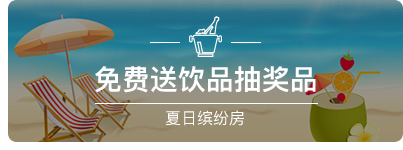
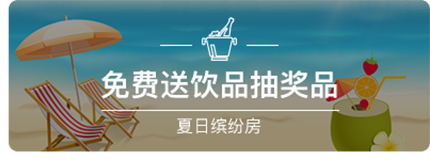
summrer

diff --git a/summer_vacation/styles/index.css b/summer_vacation/styles/index.css
@@ -166,4 +166,71 @@ html {
         width: 100%;
         height: 100%; }
 
+.minimum-header {
+  width: 100%;
+  height: auto;
+  font-size: 0; }
+  .minimum-header > img {
+    width: 100%; }
+  .minimum-header .title {
+    position: relative;
+    margin-top: -20%;
+    width: 100%;
+    font-size: 0;
+    text-align: center; }
+    .minimum-header .title > img {
+      width: 50%; }
+    .minimum-header .title .rule {
+      position: absolute;
+      top: 50%;
+      right: 5%;
+      z-index: 1;
+      width: 2rem;
+      height: 2rem;
+      -moz-transform: translate(0, -50%);
+      -o-transform: translate(0, -50%);
+      -ms-transform: translate(0, -50%);
+      -webkit-transform: translate(0, -50%);
+      transform: translate(0, -50%); }
+      .minimum-header .title .rule img {
+        width: 100%;
+        height: 100%; }
+  .minimum-header .city {
+    position: relative;
+    width: 100%;
+    margin: 3% 0 5%; }
+    .minimum-header .city p {
+      margin: 0 auto;
+      width: 36%;
+      height: 1.4rem;
+      background-color: #fff;
+      border: 1px solid #feae21;
+      border-radius: 30px;
+      display: -webkit-flex;
+      display: flex;
+      align-items: center; }
+      .minimum-header .city p i {
+        width: 2rem;
+        position: relative; }
+        .minimum-header .city p i:after {
+          position: absolute;
+          content: "";
+          width: 0;
+          height: 0;
+          top: -.1rem;
+          left: 50%;
+          border: .4rem solid;
+          border-color: #feae21 transparent transparent transparent;
+          -moz-transform: translate(-50%, 0);
+          -o-transform: translate(-50%, 0);
+          -ms-transform: translate(-50%, 0);
+          -webkit-transform: translate(-50%, 0);
+          transform: translate(-50%, 0); }
+      .minimum-header .city p span {
+        font: 0.7rem/1.4rem -apple-system, BlinkMacSystemFont, "PingFang SC", "Helvetica Neue", STHeiti, "Microsoft Yahei", Tahoma, Simsun, sans-serif;
+        color: #feae21;
+        flex: 1;
+        border-left: 1px solid #feae21;
+        text-align: center; }
+
 /*# sourceMappingURL=index.css.map */

diff --git a/summer_vacation/minimum_price.html b/summer_vacation/minimum_price.html
@@ -1,0 +1,52 @@
+<!DOCTYPE html>
+<html id="html" lang="zh-cmn-Hans">
+<head>
+<meta charset="UTF-8">
+<meta http-equiv="X-UA-Compatible" content="IE=edge,chrome=1"/>
+<meta name="description" content="不超过150个字符"/>
+<meta name="keywords" content="不超过80个字符"/>
+<meta name="author" content="name, sycbbb@sina.com"/>
+<meta name="robots" content="index,follow"/>
+<meta name="viewport" content="width=device-width, initial-scale=1.0, user-scalable=no">
+<meta name="apple-mobile-web-app-status-bar-style" content="black"/>
+<meta name="format-detection" content="telephone=no, email=no,adress=no"/>
+<meta name="msapplication-tap-highlight" content="no">
+<link rel="stylesheet" href="styles/index.css">
+<title></title>
+</head>
+<body>
+<div class="masterplate-wrapper" style="background:url(images/minimum_price_bg.jpg) repeat-y;background-size:100% auto">
+	<header class="minimum-header">
+		<img src="images/minimum_price_head.jpg" alt="">
+		<div class="title">
+			<img src="images/minimum_price_title.png" alt="">
+			<div class="rule">
+				<img src="images/minimum_price_rule.png" alt="">
+			</div>
+		</div>
+		<div class="city">
+			<p><i></i><span>广州</span></p>
+		</div>
+	</header>
+</div>
+<!-- script begin -->
+<script src="scripts/jquery-3.1.1.min.js"></script>
+<script>
+	$(function(){
+	    //设置标题
+		var titleHeight=$(".masterplate-title").height();
+		var titleImgHeight=$(".masterplate-title img").height();
+		var marginTopHeight=(titleHeight-titleImgHeight)/2;
+		$(".masterplate-title img").css('margin-top',marginTopHeight);
+		
+		//设置列表尺寸比例
+		var containerW=$("#container").width();
+		var containerH=$("#container").height();	
+		$(".item").width(containerW/3).height(containerH/2);
+		$(".item:nth-child(2)").width(containerW/3*2).height(containerH/2);
+
+	});
+</script>
+<!-- script end -->
+</body>
+</html>

diff --git a/summer_vacation/sass/_index.scss b/summer_vacation/sass/_index.scss
@@ -61,5 +61,74 @@
 	}
 }
 
-
+//minmum header begin
+.minimum-header{
+	width:100%;
+	height:auto;
+	font-size:0;
+	>img{
+		width:100%;
+	}
+	.title{
+		position:relative;
+		margin-top:-20%;
+		width:100%;
+		font-size:0;
+		text-align:center;
+		>img{
+			width:50%;
+		}
+		.rule{
+			position:absolute;
+			top:50%;
+			right:5%;
+			z-index:1;
+			width:2rem;
+			height:2rem;
+			@include transform(translate(0, -50%));
+			img{
+				width:100%;
+				height:100%;
+			}
+		}
+	}
+	.city{
+	    position: relative;
+		width:100%;
+		margin:3% 0 5%;
+		p{
+			margin:0 auto;
+			width:36%;
+			height:1.4rem;
+			background-color:#fff;
+			border:1px solid #feae21;
+			border-radius:30px;
+			display:-webkit-flex;
+			display:flex;
+			align-items:center;
+			i{
+				width:2rem;
+				position:relative;
+				&:after{
+					position:absolute;
+					content:"";
+					width:0;
+					height:0;
+					top:-.1rem;
+					left:50%;
+					border:.4rem solid;
+					border-color:#feae21 transparent transparent transparent;
+					@include transform(translate(-50%,0));
+				}	
+			}
+			span{
+				font:.7rem/1.4rem $publicFont;
+				color:#feae21;
+				flex:1;
+				border-left:1px solid #feae21;
+				text-align:center;
+			}
+		}
+	}
+}
 
